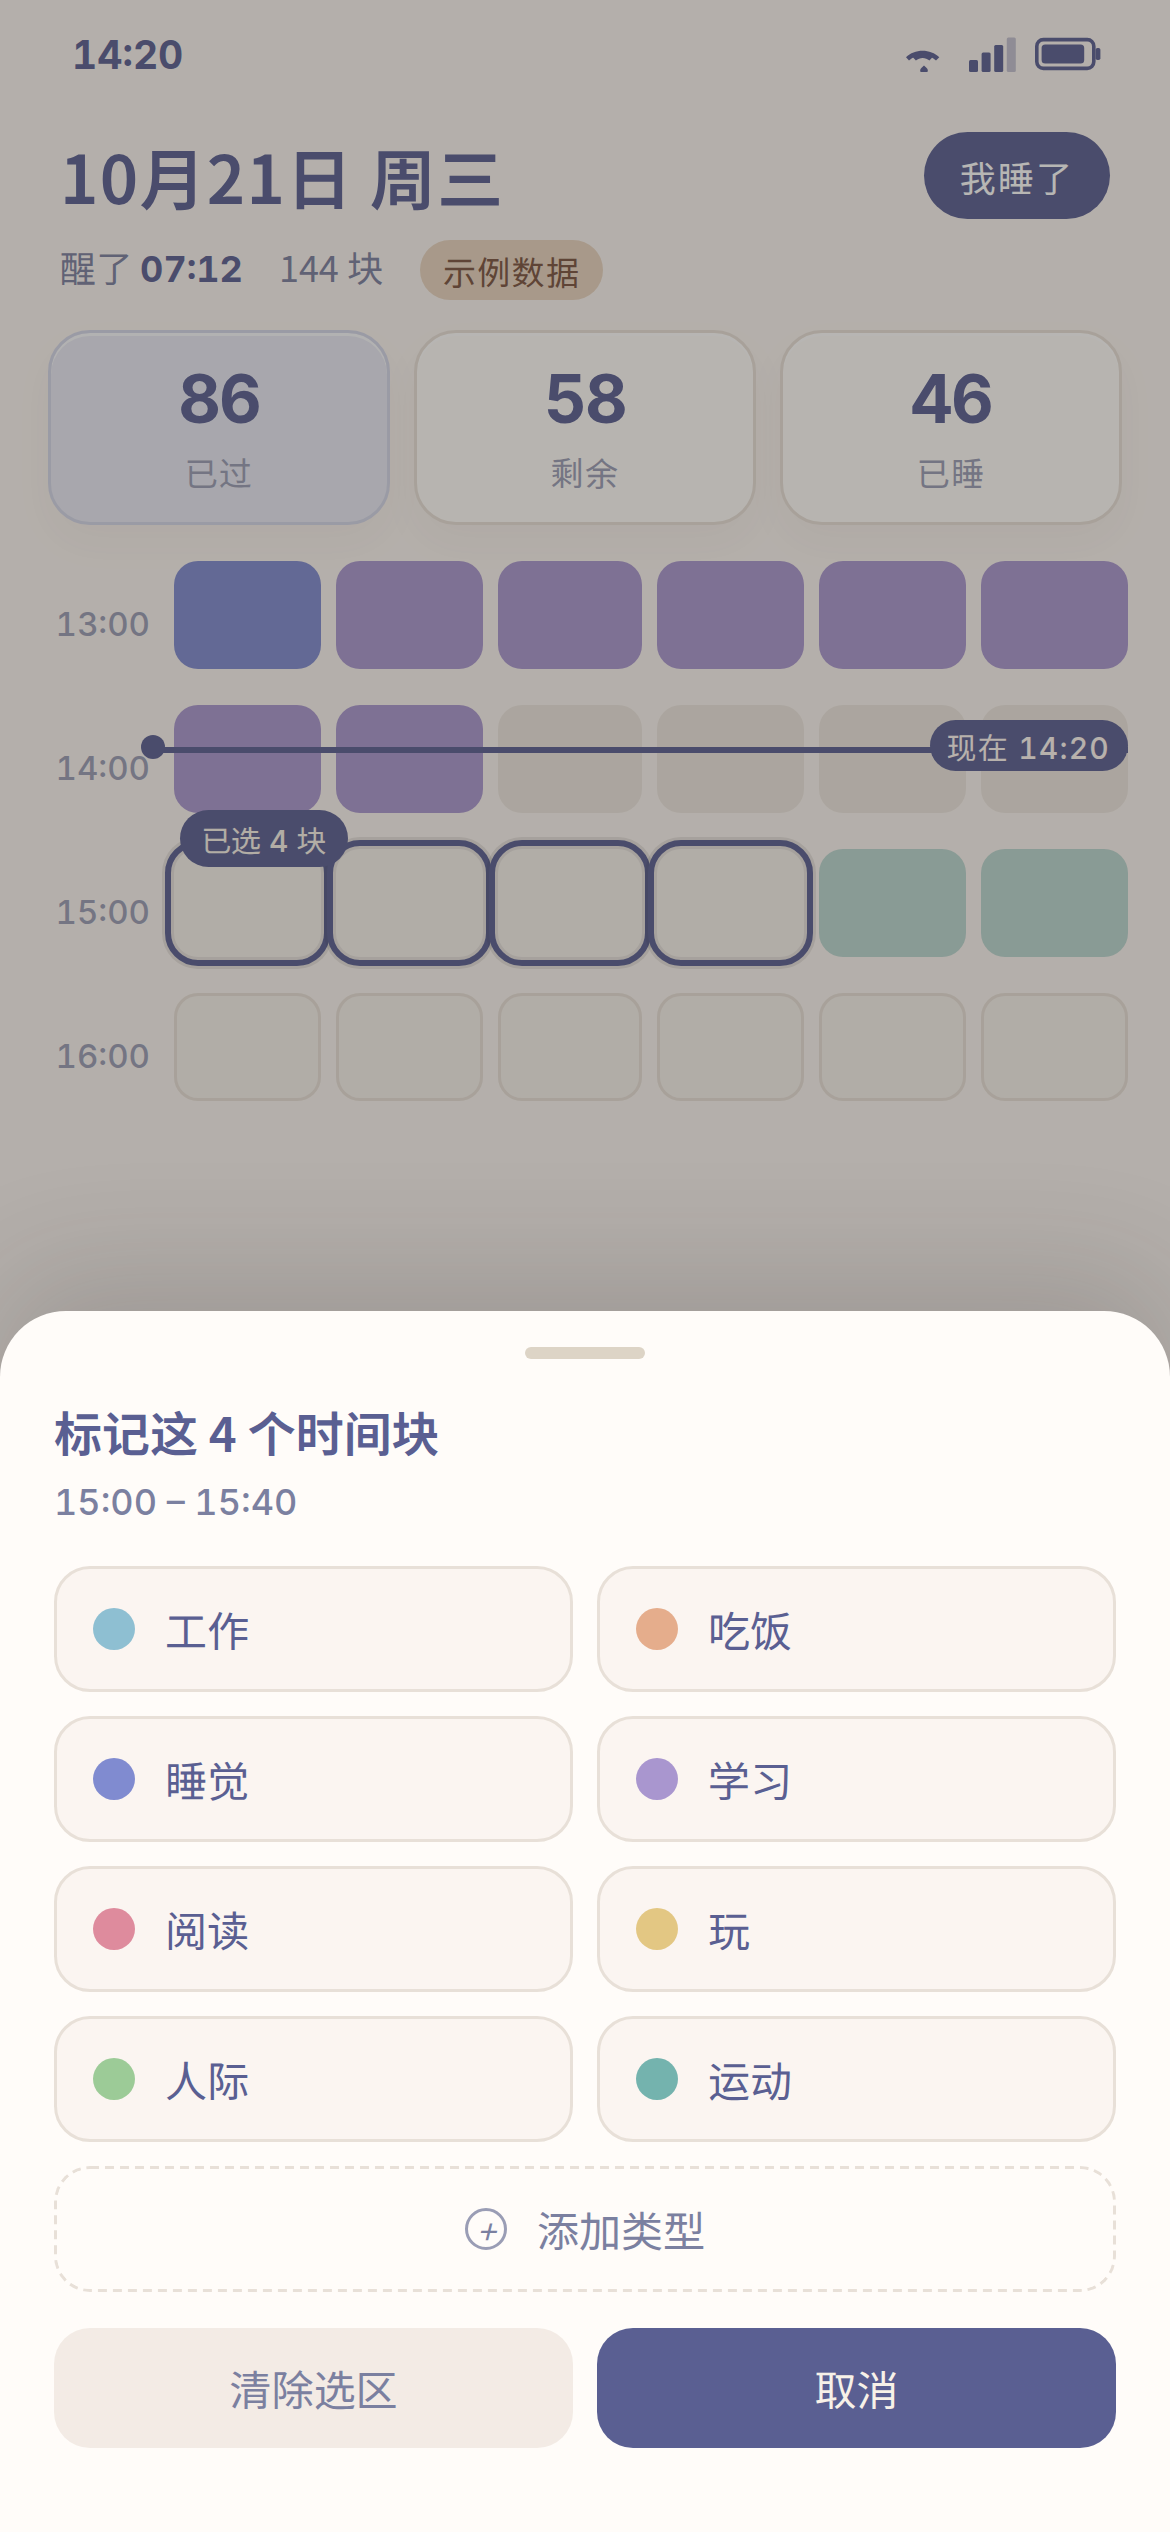
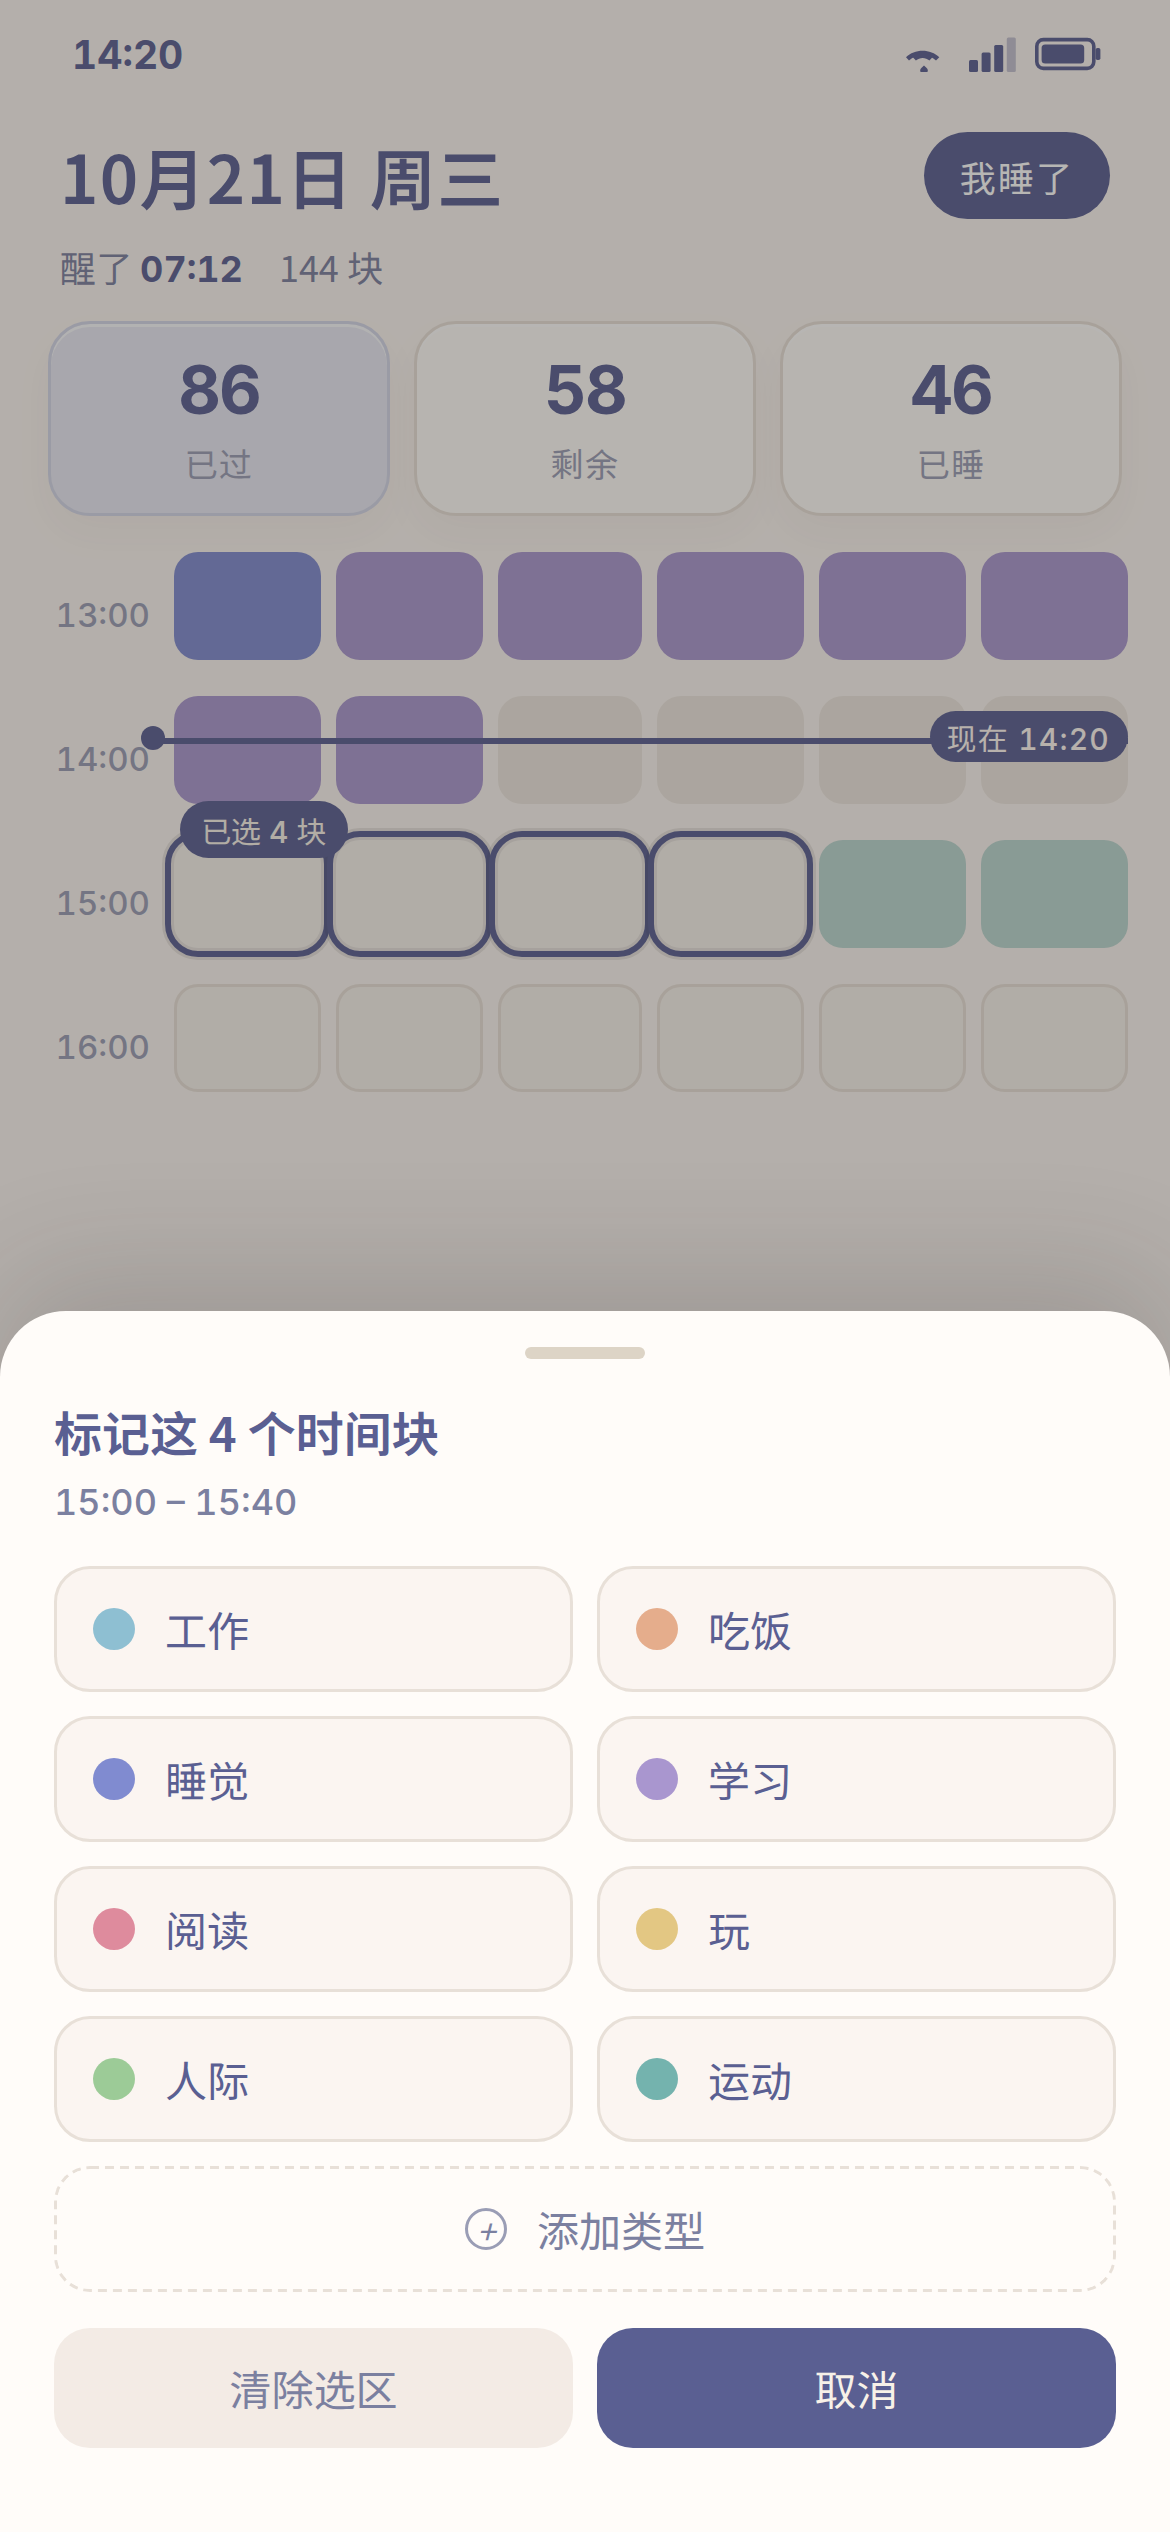
Fix wake-fill counts and drop demo fixture chips.
Wake now goes through WakeFill so toast and 已睡 use the same
[00:42, 07:12) overlap (39 blocks, 00:40–07:10). First launch still
seeds types only — no demo blocks or 示例数据 chip.

diff --git a/mockups/index.html b/mockups/index.html
@@ -645,7 +645,6 @@
     <div class="wake asleep">
       <div class="wake-top">
         <div class="brand">时间块</div>
-        <span class="badge-ex">示例</span>
       </div>
       <div class="wake-mid">
         <div class="wake-date">2026年10月21日 · 星期三</div>
@@ -674,20 +673,19 @@
         <div class="meta">
           <span>醒了 <b class="num">07:12</b></span>
           <span>144 块</span>
-          <span class="badge-ex">示例数据</span>
         </div>
       </div>
-      <div class="toast"><i></i>00:42 入睡 · 已记 43 块睡觉</div>
+      <div class="toast"><i></i>00:42 入睡 · 已记 39 块睡觉</div>
       <div class="stats">
         <div class="stat em"><div class="n num">43</div><div class="l">已过</div></div>
         <div class="stat"><div class="n num">101</div><div class="l">剩余</div></div>
-        <div class="stat"><div class="n num">43</div><div class="l">已睡</div></div>
+        <div class="stat"><div class="n num">39</div><div class="l">已睡</div></div>
       </div>
       <div class="grid-wrap">
         <div class="grid-fade-top"></div>
         <div class="hour">
           <div class="hour-t num">00:00</div>
-          <div class="cells"><i class="c sleep"></i><i class="c sleep"></i><i class="c sleep"></i><i class="c sleep"></i><i class="c sleep"></i><i class="c sleep"></i></div>
+          <div class="cells"><i class="c"></i><i class="c"></i><i class="c"></i><i class="c"></i><i class="c sleep"></i><i class="c sleep"></i></div>
         </div>
         <div class="hour">
           <div class="hour-t num">01:00</div>
@@ -737,7 +735,6 @@
         <div class="meta">
           <span>醒了 <b class="num">07:12</b></span>
           <span>144 块</span>
-          <span class="badge-ex">示例数据</span>
         </div>
       </div>
       <div class="stats">
@@ -797,7 +794,6 @@
     <div class="stats-page">
       <div style="display:flex;align-items:center;justify-content:space-between">
         <h1>统计</h1>
-        <span class="badge-ex">示例 · 日</span>
       </div>
       <div class="seg"><i class="on">日</i><i>周</i><i>月</i><i>年</i></div>
       <div class="period">

diff --git a/app/src/main/java/com/shijiankuai/app/data/Repository.kt b/app/src/main/java/com/shijiankuai/app/data/Repository.kt
@@ -10,6 +10,7 @@ import com.shijiankuai.app.domain.SLEEP_TYPE_ID
 import com.shijiankuai.app.domain.SleepFill
 import com.shijiankuai.app.domain.SleepSession
 import com.shijiankuai.app.domain.StatsCalc
+import com.shijiankuai.app.domain.WakeFill
 import com.shijiankuai.app.domain.WakeFillResult
 import kotlinx.coroutines.flow.Flow
 import kotlinx.coroutines.flow.MutableStateFlow
@@ -62,7 +63,7 @@ class Repository(
         if (start == null) {
             return WakeOutcome.NoSleepStart
         }
-        val filled = applySleepSpan(start, now, previous = null)
+        val result = applySleepSpan(start, now, previous = null)
         if (open != null) {
             db.sleeps().update(open.copy(endedAtMillis = now.toEpochMilli()))
         } else {
@@ -70,7 +71,7 @@ class Repository(
                 SleepRow(startedAtMillis = start.toEpochMilli(), endedAtMillis = now.toEpochMilli()),
             )
         }
-        return WakeOutcome.Filled(WakeFillResult(start, now, filled))
+        return WakeOutcome.Filled(result)
     }
 
     suspend fun justWake() {
@@ -96,9 +97,10 @@ class Repository(
         start: Instant,
         end: Instant,
         previous: Pair<Instant, Instant>?,
-    ): List<BlockId> {
+    ): WakeFillResult {
         val zone = clock.zone()
-        val next = SleepFill.blocks(start, end, zone).toSet()
+        val result = WakeFill.compute(start, end, zone)
+        val next = result.filled.toSet()
         val old = previous?.let { SleepFill.blocks(it.first, it.second, zone).toSet() } ?: emptySet()
         val toClear = old - next
         toClear.forEach { id ->
@@ -109,7 +111,7 @@ class Repository(
             }
         }
         db.blocks().upsertAll(next.map { BlockRow(it.epochDay, it.index, SLEEP_TYPE_ID) })
-        return next.toList().sortedWith(compareBy({ it.epochDay }, { it.index }))
+        return result
     }
 
     suspend fun setRange(date: LocalDate, from: Int, to: Int, typeId: String?) {

diff --git a/app/src/main/java/com/shijiankuai/app/ui/AppViewModel.kt b/app/src/main/java/com/shijiankuai/app/ui/AppViewModel.kt
@@ -14,6 +14,8 @@ import com.shijiankuai.app.domain.PeriodStats
 import com.shijiankuai.app.domain.SLEEP_TYPE_ID
 import com.shijiankuai.app.domain.SleepSession
 import com.shijiankuai.app.domain.SleepSessions
+import com.shijiankuai.app.domain.WakeFill
+import com.shijiankuai.app.domain.WakeFillResult
 import java.time.Instant
 import java.time.LocalDate
 import java.time.LocalTime
@@ -153,7 +155,7 @@ class AppViewModel(private val repo: Repository) : ViewModel() {
         viewModelScope.launch {
             when (val out = repo.markWake()) {
                 WakeOutcome.NoSleepStart -> needSleepStart.value = true
-                is WakeOutcome.Filled -> showWakeToast(out.result.sleepStart, out.result.filled.size)
+                is WakeOutcome.Filled -> showWakeToast(out.result)
             }
         }
     }
@@ -167,7 +169,7 @@ class AppViewModel(private val repo: Repository) : ViewModel() {
             if (!start.isBefore(now)) start = start.minusSeconds(24 * 3600)
             when (val out = repo.markWake(start)) {
                 WakeOutcome.NoSleepStart -> {}
-                is WakeOutcome.Filled -> showWakeToast(out.result.sleepStart, out.result.filled.size)
+                is WakeOutcome.Filled -> showWakeToast(out.result)
             }
         }
     }
@@ -228,10 +230,8 @@ class AppViewModel(private val repo: Repository) : ViewModel() {
         toast.value = null
     }
 
-    private fun showWakeToast(start: Instant, n: Int) {
-        val hm = start.atZone(repo.clock.zone()).toLocalTime()
-            .format(DateTimeFormatter.ofPattern("HH:mm"))
-        toast.value = "$hm 入睡 · 已记 $n 块睡觉"
+    private fun showWakeToast(result: WakeFillResult) {
+        toast.value = WakeFill.toast(result, repo.clock.zone())
         viewModelScope.launch {
             delay(4000)
             if (toast.value?.contains("入睡") == true) toast.value = null

diff --git a/app/src/test/java/com/shijiankuai/app/domain/WakeFillTest.kt b/app/src/test/java/com/shijiankuai/app/domain/WakeFillTest.kt
@@ -1,0 +1,31 @@
+package com.shijiankuai.app.domain
+
+import org.junit.Assert.assertEquals
+import org.junit.Assert.assertFalse
+import org.junit.Test
+import java.time.LocalDate
+import java.time.LocalDateTime
+import java.time.ZoneId
+
+class WakeFillTest {
+    private val zone: ZoneId = ZoneId.of("Asia/Shanghai")
+    private val day = LocalDate.of(2026, 10, 21)
+
+    private fun instant(hour: Int, minute: Int) =
+        LocalDateTime.of(day, java.time.LocalTime.of(hour, minute)).atZone(zone).toInstant()
+
+    @Test
+    fun wakeAt0712AfterSleep0042_fillsOnlyOverlap_toastAndSleptMatch() {
+        val start = instant(0, 42)
+        val wake = instant(7, 12)
+        val result = WakeFill.compute(start, wake, zone)
+        val toast = WakeFill.toast(result, zone)
+        val slept = WakeFill.sleptOn(day, result.filled)
+
+        assertEquals((4..42).map { BlockId(day.toEpochDay(), it) }, result.filled)
+        assertFalse(result.filled.any { it.index < 4 })
+        assertEquals(39, result.filled.size)
+        assertEquals(39, slept)
+        assertEquals("00:42 入睡 · 已记 39 块睡觉", toast)
+    }
+}

diff --git a/app/src/main/java/com/shijiankuai/app/domain/WakeFill.kt b/app/src/main/java/com/shijiankuai/app/domain/WakeFill.kt
@@ -1,0 +1,21 @@
+package com.shijiankuai.app.domain
+
+import java.time.Instant
+import java.time.LocalDate
+import java.time.ZoneId
+import java.time.format.DateTimeFormatter
+
+/** The wake path: fill [sleepStart, wakeAt), then toast / 已睡 use the same list. */
+object WakeFill {
+    fun compute(sleepStart: Instant, wakeAt: Instant, zone: ZoneId): WakeFillResult =
+        WakeFillResult(sleepStart, wakeAt, SleepFill.blocks(sleepStart, wakeAt, zone))
+
+    fun toast(result: WakeFillResult, zone: ZoneId): String {
+        val hm = result.sleepStart.atZone(zone).toLocalTime()
+            .format(DateTimeFormatter.ofPattern("HH:mm"))
+        return "$hm 入睡 · 已记 ${result.filled.size} 块睡觉"
+    }
+
+    fun sleptOn(date: LocalDate, filled: List<BlockId>): Int =
+        filled.count { it.epochDay == date.toEpochDay() }
+}

diff --git a/app/src/main/java/com/shijiankuai/app/ui/Previews.kt b/app/src/main/java/com/shijiankuai/app/ui/Previews.kt
@@ -29,7 +29,7 @@ fun PreviewAsleep() {
 @Composable
 fun PreviewAwake() {
     val day = LocalDate.of(2026, 10, 21)
-    val blocks = (0..42).associateWith { SLEEP_TYPE_ID }
+    val blocks = (4..42).associateWith { SLEEP_TYPE_ID }
     TimeBlockTheme {
         TodayScreen(
             ui = TodayUi(
@@ -40,7 +40,7 @@ fun PreviewAwake() {
                 types = Presets.types,
                 elapsed = 43,
                 remaining = 101,
-                slept = 43,
+                slept = 39,
                 nowIndex = 43,
                 nowTime = java.time.LocalTime.of(7, 12),
                 lastSleep = null,
